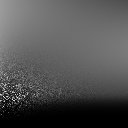
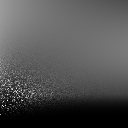
max dot and 0

diff --git a/homework4/lut-gen/Emu_MC.cpp b/homework4/lut-gen/Emu_MC.cpp
@@ -88,11 +88,12 @@ Vec3f IntegrateBRDF(Vec3f V, float roughness, float NdotV) {
     for (int i = 0; i < sample_count; i++) {
       // TODO: To calculate (fr * ni) / p_o here
         Vec3f L = sampleList.directions[i];
-        float NdotL = dot(N, L);
+        float NdotL = std::max(dot(N, L), 0.0f);
         float G = GeometrySmith(roughness, NdotV, NdotL);
         Vec3f H = normalize(V + L);
         float D = DistributionGGX(N, H, roughness);
-        Vec3f F = F0 + (One - F0) * pow((1.0 - dot(V, H)), 5.0);
+        float VdotH = std::max(dot(V, H), 0.0f);
+        Vec3f F = F0 + (One - F0) * pow((1.0 - VdotH), 5.0);
         float denominator = std::max((4.0 * NdotL * NdotV), 0.001);
         Vec3f BRDF = F * G * D / denominator;
         Vec3f Lo = BRDF * NdotL / sampleList.PDFs[i];

diff --git a/homework4/README.md b/homework4/README.md
@@ -2,6 +2,6 @@
 * lut-gen项目在visual studio下编译有点问题，所以修改了部分代码
   * uint8_t data[resolution * resolution * 3]; resolution非常量，无法编译，改成uint8_t *data = new uint8_t[resolution * resolution * 3];
   * M_PI没在vc的math.h中定义， 添加 #define M_PI       3.14159265358979323846 
-* 
+* 预计算E(μ), 结果:GGX_E_MC_LUT.png
 * 实现PBR材质，其中文档的GGX法线分布函数有笔误，使用更正后的
 * 实现Kulla-Conty 材质
